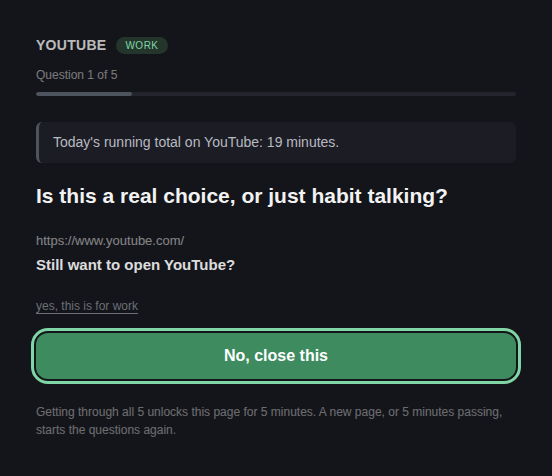
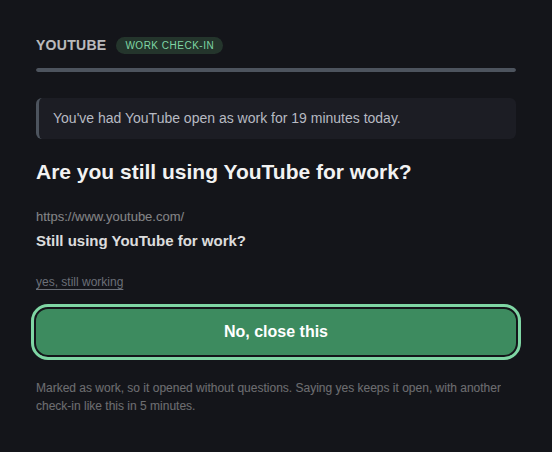
Work-marked sites: no gauntlet, single real check-in after grace period (#2)
Behavior change: sites marked "I use this for work" no longer show any
gauntlet on open — they just open. Only after staying open past the
grace period does a single, real check-in appear ("are you still using
this for work?", grounded in today's actual time on that site), not a
repeated gauntlet.

Also removes now-dead settings fields (work-mode min/max question count,
unused promptHint) and updates README/landing page copy + screenshot to
match. Bumps to v1.9.0.

diff --git a/options.html b/options.html
@@ -156,7 +156,7 @@
 
   <section>
     <h2>Gated sites</h2>
-    <p style="font-size:13px; opacity:0.7; margin: 0 0 10px;">Every site starts as <b>Not for work</b> — locked by default. Mark a site as <b>I use this for work</b> to get the lighter, shorter gauntlet instead of the longer override. <b>Block permanently</b> skips prompts entirely, no override possible.</p>
+    <p style="font-size:13px; opacity:0.7; margin: 0 0 10px;">Every site starts as <b>Not for work</b> — locked by default, behind the override gauntlet below. Mark a site as <b>I use this for work</b> to skip questions entirely — it just opens, with a single "are you still using this for work?" check-in every grace period (below) instead of any gauntlet. <b>Block permanently</b> skips prompts entirely too, but the other way — no override possible.</p>
     <div id="siteList"></div>
     <div class="add-row">
       <input type="text" id="newSiteName" placeholder="Name (e.g. TikTok)" style="flex: 0 0 25%;" />
@@ -172,14 +172,12 @@
   </section>
 
   <section>
-    <h2>Work-mode messages</h2>
-    <p style="font-size:13px; opacity:0.7; margin: 0 0 10px;">Used for sites marked "I use this for work". One per line — a random subset is shown each gauntlet, so it stays a genuine "do I really want this?" moment instead of something you learn to click past.</p>
+    <h2>Deterrent questions</h2>
+    <p style="font-size:13px; opacity:0.7; margin: 0 0 10px;">Used for the not-for-work override gauntlet below (sites marked "I use this for work" skip questions entirely — see Gated sites above). One per line — a random subset is shown each gauntlet, so it stays a genuine "do I really want this?" moment instead of something you learn to click past.</p>
     <textarea id="promptMessages"></textarea>
     <div class="row-buttons">
       <button id="restoreDefaults">Restore default messages</button>
     </div>
-    <label for="promptHint" style="margin-top:16px;">Helper text below the question (use {minutes} for the grace period, {count} for how many questions)</label>
-    <textarea id="promptHint" style="min-height: 50px;"></textarea>
   </section>
 
   <section>
@@ -188,7 +186,7 @@
     <div style="display:flex; flex-direction:column; gap:8px; margin-bottom:14px;">
       <label style="display:flex; align-items:flex-start; gap:8px; font-size:13px; opacity:0.9;">
         <input type="radio" name="notForWorkBehavior" id="behaviorOverride" value="override" style="margin-top:3px;" />
-        <span><b>Ask a longer run of questions</b> — same varied pool as work mode, just more of them (below). Get through all of them and it unlocks.</span>
+        <span><b>Ask a longer run of questions</b> — the varied pool below. Get through all of them and it unlocks.</span>
       </label>
       <label style="display:flex; align-items:flex-start; gap:8px; font-size:13px; opacity:0.9;">
         <input type="radio" name="notForWorkBehavior" id="behaviorBlock" value="block" style="margin-top:3px;" />
@@ -211,20 +209,13 @@
   <section>
     <h2>Question gauntlet</h2>
     <div class="minutes-row">
-      <label style="margin-bottom:0;">Work-mode sites:</label>
-      <input type="number" id="minQuestions" min="1" max="50" style="width:60px;" />
-      <span style="opacity:0.6; font-size: 13px;">to</span>
-      <input type="number" id="maxQuestions" min="1" max="50" style="width:60px;" />
-      <span style="opacity:0.6; font-size: 13px;">varied questions.</span>
-    </div>
-    <div class="minutes-row" style="margin-top:10px;">
       <label style="margin-bottom:0;">Not-for-work override:</label>
       <input type="number" id="overrideMinQuestions" min="1" max="50" style="width:60px;" />
       <span style="opacity:0.6; font-size: 13px;">to</span>
       <input type="number" id="overrideMaxQuestions" min="1" max="50" style="width:60px;" />
-      <span style="opacity:0.6; font-size: 13px;">varied questions (a longer run than work mode).</span>
+      <span style="opacity:0.6; font-size: 13px;">varied questions.</span>
     </div>
-    <div class="hint">A random count in each range is picked every time. Answering "no" to any single question blocks immediately. Only getting through all of them unlocks the page for the grace period below.</div>
+    <div class="hint">A random count in this range is picked every time. Answering "no" to any single question blocks immediately. Only getting through all of them unlocks the page for the grace period below. Sites marked "I use this for work" never see this — see Timing below for how those work instead.</div>
   </section>
 
   <section>
@@ -232,9 +223,9 @@
     <div class="minutes-row">
       <label for="graceMinutes" style="margin-bottom:0;">Grace period</label>
       <input type="number" id="graceMinutes" min="1" max="180" />
-      <span style="opacity:0.6; font-size: 13px;">minutes on the same URL before it re-locks</span>
+      <span style="opacity:0.6; font-size: 13px;">minutes before it re-locks or re-checks</span>
     </div>
-    <div class="hint">Any change of URL (a new video, post, page, etc.) always re-asks immediately (a fresh gauntlet), regardless of this timer.</div>
+    <div class="hint">Not-for-work sites: any change of URL (a new video, post, page, etc.) always re-asks immediately, regardless of this timer — only staying on the exact same URL uses the grace period. Work sites: this is how long a site stays open before a single "are you still using this for work?" check-in — no gauntlet, and a new URL just restarts this same timer silently.</div>
   </section>
 
   <button id="save">Save settings</button>

diff --git a/gate.js b/gate.js
@@ -2,7 +2,11 @@
   const params = new URLSearchParams(location.search);
   const tabIdParam = params.get("tabId");
   const targetUrl = params.get("target");
-  const kind = params.get("kind") === "override" ? "override" : "work";
+  const kindParam = params.get("kind");
+  // "override" — not marked as work, full varied gauntlet before it opens.
+  // "work-check" — marked as work, already open for graceMinutes; a single
+  // "are you still using this for work?" question, not a gauntlet.
+  const kind = kindParam === "work-check" ? "work-check" : "override";
 
   const siteEl = document.getElementById("site");
   const urlEl = document.getElementById("url");
@@ -23,6 +27,7 @@
   // buttons always answer this one fixed, always-sensible question instead,
   // shown right above them every time.
   function closerTextFor(siteName) {
+    if (kind === "work-check") return `Still using ${siteName} for work?`;
     return `Still want to open ${siteName}?`;
   }
 
@@ -70,13 +75,14 @@
       progressFillEl.style.width = "100%";
     }
     const minutes = settings.graceMinutes || 5;
-    const hintTemplate =
-      kind === "override"
-        ? settings.overrideHint ||
-          "Not marked as work, so it's locked by default. Saying yes {count} times in a row unlocks it for {minutes} minutes."
-        : settings.promptHint ||
-          "Getting through all {count} unlocks this page for {minutes} minutes.";
-    hintEl.textContent = hintTemplate.replace(/\{minutes\}/g, minutes).replace(/\{count\}/g, total);
+    if (kind === "work-check") {
+      hintEl.textContent = `Marked as work, so it opened without questions. Saying yes keeps it open, with another check-in like this in ${minutes} minute${minutes === 1 ? "" : "s"}.`;
+    } else {
+      const hintTemplate =
+        settings.overrideHint ||
+        "Not marked as work, so it's locked by default. Getting through all {count} unlocks it for {minutes} minutes.";
+      hintEl.textContent = hintTemplate.replace(/\{minutes\}/g, minutes).replace(/\{count\}/g, total);
+    }
   }
 
   function finish() {
@@ -110,18 +116,31 @@
     const site = fgSiteForUrl(settings, targetUrl || "");
     siteName = site.name;
     siteEl.textContent = site.name;
-    kindBadgeEl.textContent = kind === "override" ? "Not marked for work" : "Work";
-    kindBadgeEl.className = "kind-badge " + kind;
-    yesBtn.textContent = kind === "override" ? "yes, continue anyway" : "yes, this is for work";
 
-    // Real numbers for today, on this exact site — used to ground every
-    // question in an actual fact instead of a generic guilt-trip.
-    const minutesBefore = await fgGetSiteMinutesToday(site.id);
-    const opens = await fgRecordSiteOpen(site.id, site.name);
-    const factData = { site: site.name, opens, minutes: minutesBefore };
+    if (kind === "work-check") {
+      // A single, real check-in — not a gauntlet. Shown only after this
+      // site has already been open (as work) for the grace period.
+      kindBadgeEl.textContent = "Work check-in";
+      kindBadgeEl.className = "kind-badge work";
+      yesBtn.textContent = "yes, still working";
+      const minutes = await fgGetSiteMinutesToday(site.id);
+      const fact =
+        minutes > 0
+          ? `You've had ${site.name} open as work for ${minutes} minute${minutes === 1 ? "" : "s"} today.`
+          : `${site.name} has been open, marked as work, for the last ${settings.graceMinutes || 5} minutes.`;
+      questions = [{ fact, question: `Are you still using ${site.name} for work?` }];
+    } else {
+      kindBadgeEl.textContent = "Not marked for work";
+      kindBadgeEl.className = "kind-badge override";
+      yesBtn.textContent = "yes, continue anyway";
+      // Real numbers for today, on this exact site — used to ground every
+      // question in an actual fact instead of a generic guilt-trip.
+      const minutesBefore = await fgGetSiteMinutesToday(site.id);
+      const opens = await fgRecordSiteOpen(site.id, site.name);
+      const factData = { site: site.name, opens, minutes: minutesBefore };
+      questions = fgPickOverrideRun(settings, factData);
+    }
 
-    questions =
-      kind === "override" ? fgPickOverrideRun(settings, factData) : fgPickQuestionRun(settings, factData);
     index = 0;
     renderStep();
   });

diff --git a/options.js b/options.js
@@ -8,13 +8,10 @@
   const addSiteBtn = document.getElementById("addSite");
   const promptMessagesEl = document.getElementById("promptMessages");
   const restoreDefaultsBtn = document.getElementById("restoreDefaults");
-  const promptHintEl = document.getElementById("promptHint");
   const behaviorOverrideEl = document.getElementById("behaviorOverride");
   const behaviorBlockEl = document.getElementById("behaviorBlock");
   const overrideHintEl = document.getElementById("overrideHint");
   const graceMinutesEl = document.getElementById("graceMinutes");
-  const minQuestionsEl = document.getElementById("minQuestions");
-  const maxQuestionsEl = document.getElementById("maxQuestions");
   const overrideMinQuestionsEl = document.getElementById("overrideMinQuestions");
   const overrideMaxQuestionsEl = document.getElementById("overrideMaxQuestions");
   const saveBtn = document.getElementById("save");
@@ -133,12 +130,9 @@ Then generate as many personalized deterrent lines as you reasonably can (aim fo
   function loadIntoForm() {
     renderSites();
     promptMessagesEl.value = settings.promptMessages.join("\n");
-    promptHintEl.value = settings.promptHint;
     (settings.notForWorkBehavior === "block" ? behaviorBlockEl : behaviorOverrideEl).checked = true;
     overrideHintEl.value = settings.overrideHint;
     graceMinutesEl.value = settings.graceMinutes;
-    minQuestionsEl.value = settings.minQuestions;
-    maxQuestionsEl.value = settings.maxQuestions;
     overrideMinQuestionsEl.value = settings.overrideMinQuestions;
     overrideMaxQuestionsEl.value = settings.overrideMaxQuestions;
     aiPromptEl.textContent = AI_PROMPT_TEMPLATE;
@@ -197,18 +191,10 @@ Then generate as many personalized deterrent lines as you reasonably can (aim fo
       .map((l) => l.replace(/^[\s]*[-*•]\s*/, "").replace(/^[\s]*\d+[\.\)]\s*/, "").trim())
       .filter(Boolean);
     settings.promptMessages = lines.length ? lines : structuredClone(DEFAULT_SETTINGS.promptMessages);
-    settings.promptHint = promptHintEl.value.trim();
     settings.notForWorkBehavior = behaviorBlockEl.checked ? "block" : "override";
     settings.overrideHint = overrideHintEl.value.trim();
     const minutes = parseInt(graceMinutesEl.value, 10);
     settings.graceMinutes = Number.isFinite(minutes) && minutes > 0 ? minutes : 5;
-
-    let minQ = parseInt(minQuestionsEl.value, 10);
-    let maxQ = parseInt(maxQuestionsEl.value, 10);
-    if (!Number.isFinite(minQ) || minQ < 1) minQ = 5;
-    if (!Number.isFinite(maxQ) || maxQ < minQ) maxQ = minQ;
-    settings.minQuestions = minQ;
-    settings.maxQuestions = maxQ;
 
     let overMinQ = parseInt(overrideMinQuestionsEl.value, 10);
     let overMaxQ = parseInt(overrideMaxQuestionsEl.value, 10);

diff --git a/background.js b/background.js
@@ -36,7 +36,7 @@ function gateUrlFor(tabId, targetUrl, kind) {
     "&target=" +
     encodeURIComponent(targetUrl) +
     "&kind=" +
-    encodeURIComponent(kind || "work")
+    encodeURIComponent(kind || "override")
   );
 }
 
@@ -89,6 +89,25 @@ async function checkAndGate(tabId, url) {
     return;
   }
 
+  if (site.mode === "work") {
+    // Marked as work: never gated up front, no questions asked. It just
+    // opens. A silent timer starts (or restarts, on any new URL on this
+    // site) for graceMinutes; if the SAME url is still open when it fires,
+    // the alarm handler below sends a single "are you still using this for
+    // work?" check-in (kind "work-check") instead of re-asking anything.
+    // Saying yes there re-arms this same timer.
+    const graceMs = (currentSettings.graceMinutes || 5) * 60 * 1000;
+    await setAllowEntry(tabId, url, Date.now() + graceMs, "work-check");
+    try {
+      await chrome.alarms.create(`recheck_${tabId}`, {
+        delayInMinutes: currentSettings.graceMinutes || 5
+      });
+    } catch (e) {
+      // ignore
+    }
+    return; // no redirect — the page just loads
+  }
+
   const entry = await getAllowEntry(tabId);
   const now = Date.now();
 
@@ -96,14 +115,11 @@ async function checkAndGate(tabId, url) {
     return; // still within the approved window for this exact URL
   }
 
-  // "work" sites get the varied deterrent gauntlet; everything else
-  // ("default" — not marked as work, with notForWorkBehavior "override")
-  // gets the longer, varied override gauntlet.
-  const kind = site.mode === "work" ? "work" : "override";
-
+  // Not marked as work ("default", with notForWorkBehavior "override") gets
+  // the longer, varied override gauntlet before it opens at all.
   await clearAllowEntry(tabId);
   try {
-    await chrome.tabs.update(tabId, { url: gateUrlFor(tabId, url, kind) });
+    await chrome.tabs.update(tabId, { url: gateUrlFor(tabId, url, "override") });
   } catch (e) {
     // tab may have gone away mid-navigation; nothing to do
   }
@@ -237,7 +253,7 @@ chrome.runtime.onMessage.addListener((msg, sender, sendResponse) => {
   if (msg.type === "approve") {
     const tabId = msg.tabId;
     const url = msg.url;
-    const kind = msg.kind === "override" ? "override" : "work";
+    const kind = msg.kind === "work-check" ? "work-check" : "override";
     fgRecordDecision("yes");
     (currentSettings ? Promise.resolve(currentSettings) : fgGetSettings()).then(
       (settings) => {

diff --git a/docs/index.html b/docs/index.html
@@ -90,7 +90,7 @@
     </figure>
     <figure>
       <img src="./screenshots/screenshot-gate-work.png" alt="The gate screen on YouTube marked as work, showing a shorter gauntlet" />
-      <figcaption>The lighter gauntlet for a site marked "I use this for work".</figcaption>
+      <figcaption>The single, real check-in shown after a work-marked site has been open past the grace period — no gauntlet.</figcaption>
     </figure>
     <figure>
       <img src="./screenshots/screenshot-popup.png" alt="The toolbar popup showing site states and a quick summary" />
@@ -100,8 +100,8 @@
 
   <h2>Three states per site</h2>
   <ul>
-    <li><strong>I use this for work</strong> &mdash; a shorter, lighter gauntlet.</li>
-    <li><strong>Not for work</strong> (the default) &mdash; a longer override gauntlet, or a flat block, your choice.</li>
+    <li><strong>I use this for work</strong> &mdash; no questions at all, opens immediately. Just one real "are you still using this for work?" check-in after the grace period.</li>
+    <li><strong>Not for work</strong> (the default) &mdash; the deterrent gauntlet, or a flat block, your choice.</li>
     <li><strong>Block permanently</strong> &mdash; no prompt, ever, no override.</li>
   </ul>
 

diff --git a/popup.js b/popup.js
@@ -10,8 +10,8 @@ fgGetSettings().then((settings) => {
   const blockedCount = settings.sites.filter((s) => s.mode === "blocked").length;
   let desc =
     settings.notForWorkBehavior === "block"
-      ? `Work sites ask ${settings.minQuestions}-${settings.maxQuestions} varied questions to unlock for ${settings.graceMinutes} min. Everything else is just blocked outright, no override.`
-      : `Work sites ask ${settings.minQuestions}-${settings.maxQuestions} varied questions; everything else asks ${settings.overrideMinQuestions}-${settings.overrideMaxQuestions}. Getting through unlocks for ${settings.graceMinutes} min.`;
+      ? `Work sites open immediately, with a quick check-in every ${settings.graceMinutes} min. Everything else is just blocked outright, no override.`
+      : `Work sites open immediately, with a quick check-in every ${settings.graceMinutes} min. Everything else asks ${settings.overrideMinQuestions}-${settings.overrideMaxQuestions} varied questions to unlock for ${settings.graceMinutes} min.`;
   if (workCount === 0) {
     desc += ` Nothing is marked as work yet.`;
   }

diff --git a/README.md b/README.md
@@ -18,15 +18,19 @@ deterrent-question gauntlet, with three levels per site.
 Every site you add starts as **Not for work** — nothing is assumed to be
 work by default. Change a site's state any time in Settings:
 
-1. **I use this for work** — the light gauntlet: a random run of
-   `minQuestions`–`maxQuestions` (default 5–10) *varied* deterrent
-   questions, each drawn from a ~350-line pool so it rarely repeats.
-2. **Not for work** (the default for every site) — a longer override
-   gauntlet of `overrideMinQuestions`–`overrideMaxQuestions` (default 7–10)
-   *varied* questions from that same pool — not a hard block: get through
-   every single one and it unlocks for the grace period, same as work mode;
-   then it locks back to this state. You can instead set this to a flat
-   block (Settings → "Not-for-work sites") with no override at all.
+1. **I use this for work** — no questions at all. It just opens. A
+   silent timer starts for `graceMinutes` (default 5); if the *same* URL is
+   still open when it fires, you get one single, real check-in — "Are you
+   still using this for work?" — not a gauntlet. Say yes and the timer
+   re-arms; say no and it's blocked. A new URL on the site just restarts
+   the timer silently.
+2. **Not for work** (the default for every site) — the override gauntlet:
+   `overrideMinQuestions`–`overrideMaxQuestions` (default 7–10) *varied*
+   deterrent questions, each drawn from a ~350-line pool so it rarely
+   repeats. Not a hard block: get through every single one and it unlocks
+   for the grace period, then locks back to this state. You can instead set
+   this to a flat block (Settings → "Not-for-work sites") with no override
+   at all.
 3. **Block permanently** — no prompt at all, ever, no override possible.
    For sites you never want a way in for.
 
@@ -72,7 +76,7 @@ These facts rotate question to question within one gauntlet, so it's never
 the same fact twice in a row.
 
 <p align="center">
-  <img src="docs/screenshots/screenshot-gate-work.png" width="60%" alt="Gate screen for a site marked as work" />
+  <img src="docs/screenshots/screenshot-gate-work.png" width="60%" alt="Work check-in screen, shown only after the grace period" />
 </p>
 
 ## Insights
